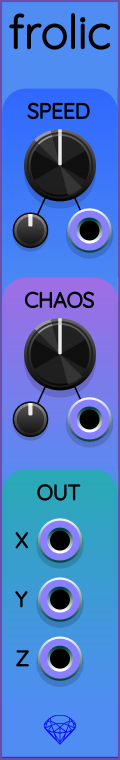
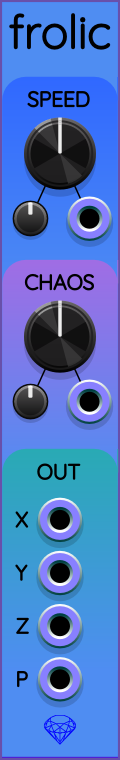
Frolic, Glee: added polyphonic output P.
The new output represents the vector (X, Y, Z) as
a single 3-channel output port.
The existing monophonic output ports X, Y, and Z are still present.

diff --git a/src/frolic.cpp b/src/frolic.cpp
@@ -38,6 +38,7 @@ namespace Sapphire
             X_OUTPUT,
             Y_OUTPUT,
             Z_OUTPUT,
+            POLY_OUTPUT,
 
             OUTPUTS_LEN
         };
@@ -61,6 +62,7 @@ namespace Sapphire
                 configOutput(X_OUTPUT, "X");
                 configOutput(Y_OUTPUT, "Y");
                 configOutput(Z_OUTPUT, "Z");
+                configOutput(POLY_OUTPUT, "Polyphonic (X, Y, Z)");
 
                 configParam(SPEED_KNOB_PARAM, -7, +7, 0, "Speed");
                 configParam(CHAOS_KNOB_PARAM, -1, +1, 0, "Chaos");
@@ -109,6 +111,10 @@ namespace Sapphire
                 outputs[X_OUTPUT].setVoltage(circuit.vx());
                 outputs[Y_OUTPUT].setVoltage(circuit.vy());
                 outputs[Z_OUTPUT].setVoltage(circuit.vz());
+                outputs[POLY_OUTPUT].setChannels(3);
+                outputs[POLY_OUTPUT].setVoltage(circuit.vx(), 0);
+                outputs[POLY_OUTPUT].setVoltage(circuit.vy(), 1);
+                outputs[POLY_OUTPUT].setVoltage(circuit.vz(), 2);
                 communicator.sendVector(circuit.vx(), circuit.vy(), circuit.vz(), false);
             }
         };
@@ -124,6 +130,7 @@ namespace Sapphire
                 addSapphireOutput(X_OUTPUT, "x_output");
                 addSapphireOutput(Y_OUTPUT, "y_output");
                 addSapphireOutput(Z_OUTPUT, "z_output");
+                addSapphireOutput(POLY_OUTPUT, "p_output");
 
                 addKnob(SPEED_KNOB_PARAM, "speed_knob");
                 addKnob(CHAOS_KNOB_PARAM, "chaos_knob");

diff --git a/src/glee.cpp b/src/glee.cpp
@@ -38,6 +38,7 @@ namespace Sapphire
             X_OUTPUT,
             Y_OUTPUT,
             Z_OUTPUT,
+            POLY_OUTPUT,
 
             OUTPUTS_LEN
         };
@@ -61,6 +62,7 @@ namespace Sapphire
                 configOutput(X_OUTPUT, "X");
                 configOutput(Y_OUTPUT, "Y");
                 configOutput(Z_OUTPUT, "Z");
+                configOutput(POLY_OUTPUT, "Polyphonic (X, Y, Z)");
 
                 configParam(SPEED_KNOB_PARAM, -7, +7, 0, "Speed");
                 configParam(CHAOS_KNOB_PARAM, -1, +1, 0, "Chaos");
@@ -109,6 +111,10 @@ namespace Sapphire
                 outputs[X_OUTPUT].setVoltage(circuit.vx());
                 outputs[Y_OUTPUT].setVoltage(circuit.vy());
                 outputs[Z_OUTPUT].setVoltage(circuit.vz());
+                outputs[POLY_OUTPUT].setChannels(3);
+                outputs[POLY_OUTPUT].setVoltage(circuit.vx(), 0);
+                outputs[POLY_OUTPUT].setVoltage(circuit.vy(), 1);
+                outputs[POLY_OUTPUT].setVoltage(circuit.vz(), 2);
                 communicator.sendVector(circuit.vx(), circuit.vy(), circuit.vz(), false);
             }
         };
@@ -124,6 +130,7 @@ namespace Sapphire
                 addSapphireOutput(X_OUTPUT, "x_output");
                 addSapphireOutput(Y_OUTPUT, "y_output");
                 addSapphireOutput(Z_OUTPUT, "z_output");
+                addSapphireOutput(POLY_OUTPUT, "p_output");
 
                 addKnob(SPEED_KNOB_PARAM, "speed_knob");
                 addKnob(CHAOS_KNOB_PARAM, "chaos_knob");

diff --git a/util/make_sapphire_svg.py b/util/make_sapphire_svg.py
@@ -76,14 +76,15 @@ def GenerateChaosPanel(name: str) -> int:
         pl.append(BorderRect(PANEL_WIDTH, SAPPHIRE_PANEL_COLOR, SAPPHIRE_BORDER_COLOR))
         pl.append(CenteredGemstone(panel))
         pl.append(ModelNamePath(panel, font, name))
-        outputPortY1 = 91.5
-        outputPortDY = 10.0
+        outputPortY1 = 88.0
+        outputPortDY =  9.0
         xmid = panel.mmWidth / 2
         controls.append(Component('x_output', xmid, outputPortY1 + 0*outputPortDY))
         controls.append(Component('y_output', xmid, outputPortY1 + 1*outputPortDY))
         controls.append(Component('z_output', xmid, outputPortY1 + 2*outputPortDY))
-        ySpeedKnob = 28.0
-        yChaosKnob = 60.0
+        controls.append(Component('p_output', xmid, outputPortY1 + 3*outputPortDY))
+        ySpeedKnob = 26.0
+        yChaosKnob = 57.0
         dxControlGroup = 5.0
         dyControlGroup = 11.0
         dyControlText = -11.6
@@ -119,6 +120,7 @@ def GenerateChaosPanel(name: str) -> int:
         pl.append(ControlTextPath(font, 'X',  xPortLabel, yPortLabel + 0*outputPortDY, 'port_label_x'))
         pl.append(ControlTextPath(font, 'Y',  xPortLabel, yPortLabel + 1*outputPortDY, 'port_label_y'))
         pl.append(ControlTextPath(font, 'Z',  xPortLabel, yPortLabel + 2*outputPortDY, 'port_label_z'))
+        pl.append(ControlTextPath(font, 'P',  xPortLabel, yPortLabel + 3*outputPortDY, 'port_label_p'))
     return Save(panel, svgFileName)
 
 

diff --git a/CHANGELOG.md b/CHANGELOG.md
@@ -14,6 +14,8 @@
 <td align="left">
     <ul>
         <li>Nucleus <a href="https://github.com/cosinekitty/sapphire/issues/30">issue #30</a>: watch out for infinite/NAN input. If it happens, reset the internal state and keep going.</li>
+        <li>Elastika, Nucleus, and Tube Unit now auto-reset if infinite/NAN output is detected, and indicate the problem by turning the OUTPUT level knob bright pink for 1 second, every time it happens.</li>
+        <li>Frolic and Glee now provide an additional polyphonic output with the entire vector represented as a 3-channel port.</li>
     </ul>
 </td>
 </tr>

diff --git a/Frolic.md b/Frolic.md
@@ -30,6 +30,13 @@ of a particle into a velocity vector that points in the direction
 the particle must move. No matter where the particle is, Frolic calculates
 its velocity vector and uses it to update the particle's position vector.
 
+### Outputs
+
+The outputs are available in two different forms, for convenience:
+
+1. Three separate monophonic output ports for X, Y, and Z respectively.
+2. A polyphonic port P that represents the vector (X, Y, Z) using 3 channels.
+
 ### Knobs
 
 **SPEED**: This knob allows varying how fast the simulation runs.

diff --git a/Glee.md b/Glee.md
@@ -30,6 +30,13 @@ of a particle into a velocity vector that points in the direction
 the particle must move. No matter where the particle is, Glee calculates
 its velocity vector and uses it to update the particle's position vector.
 
+### Outputs
+
+The outputs are available in two different forms, for convenience:
+
+1. Three separate monophonic output ports for X, Y, and Z respectively.
+2. A polyphonic port P that represents the vector (X, Y, Z) using 3 channels.
+
 ### Knobs
 
 **SPEED**: This knob allows varying how fast the simulation runs.
